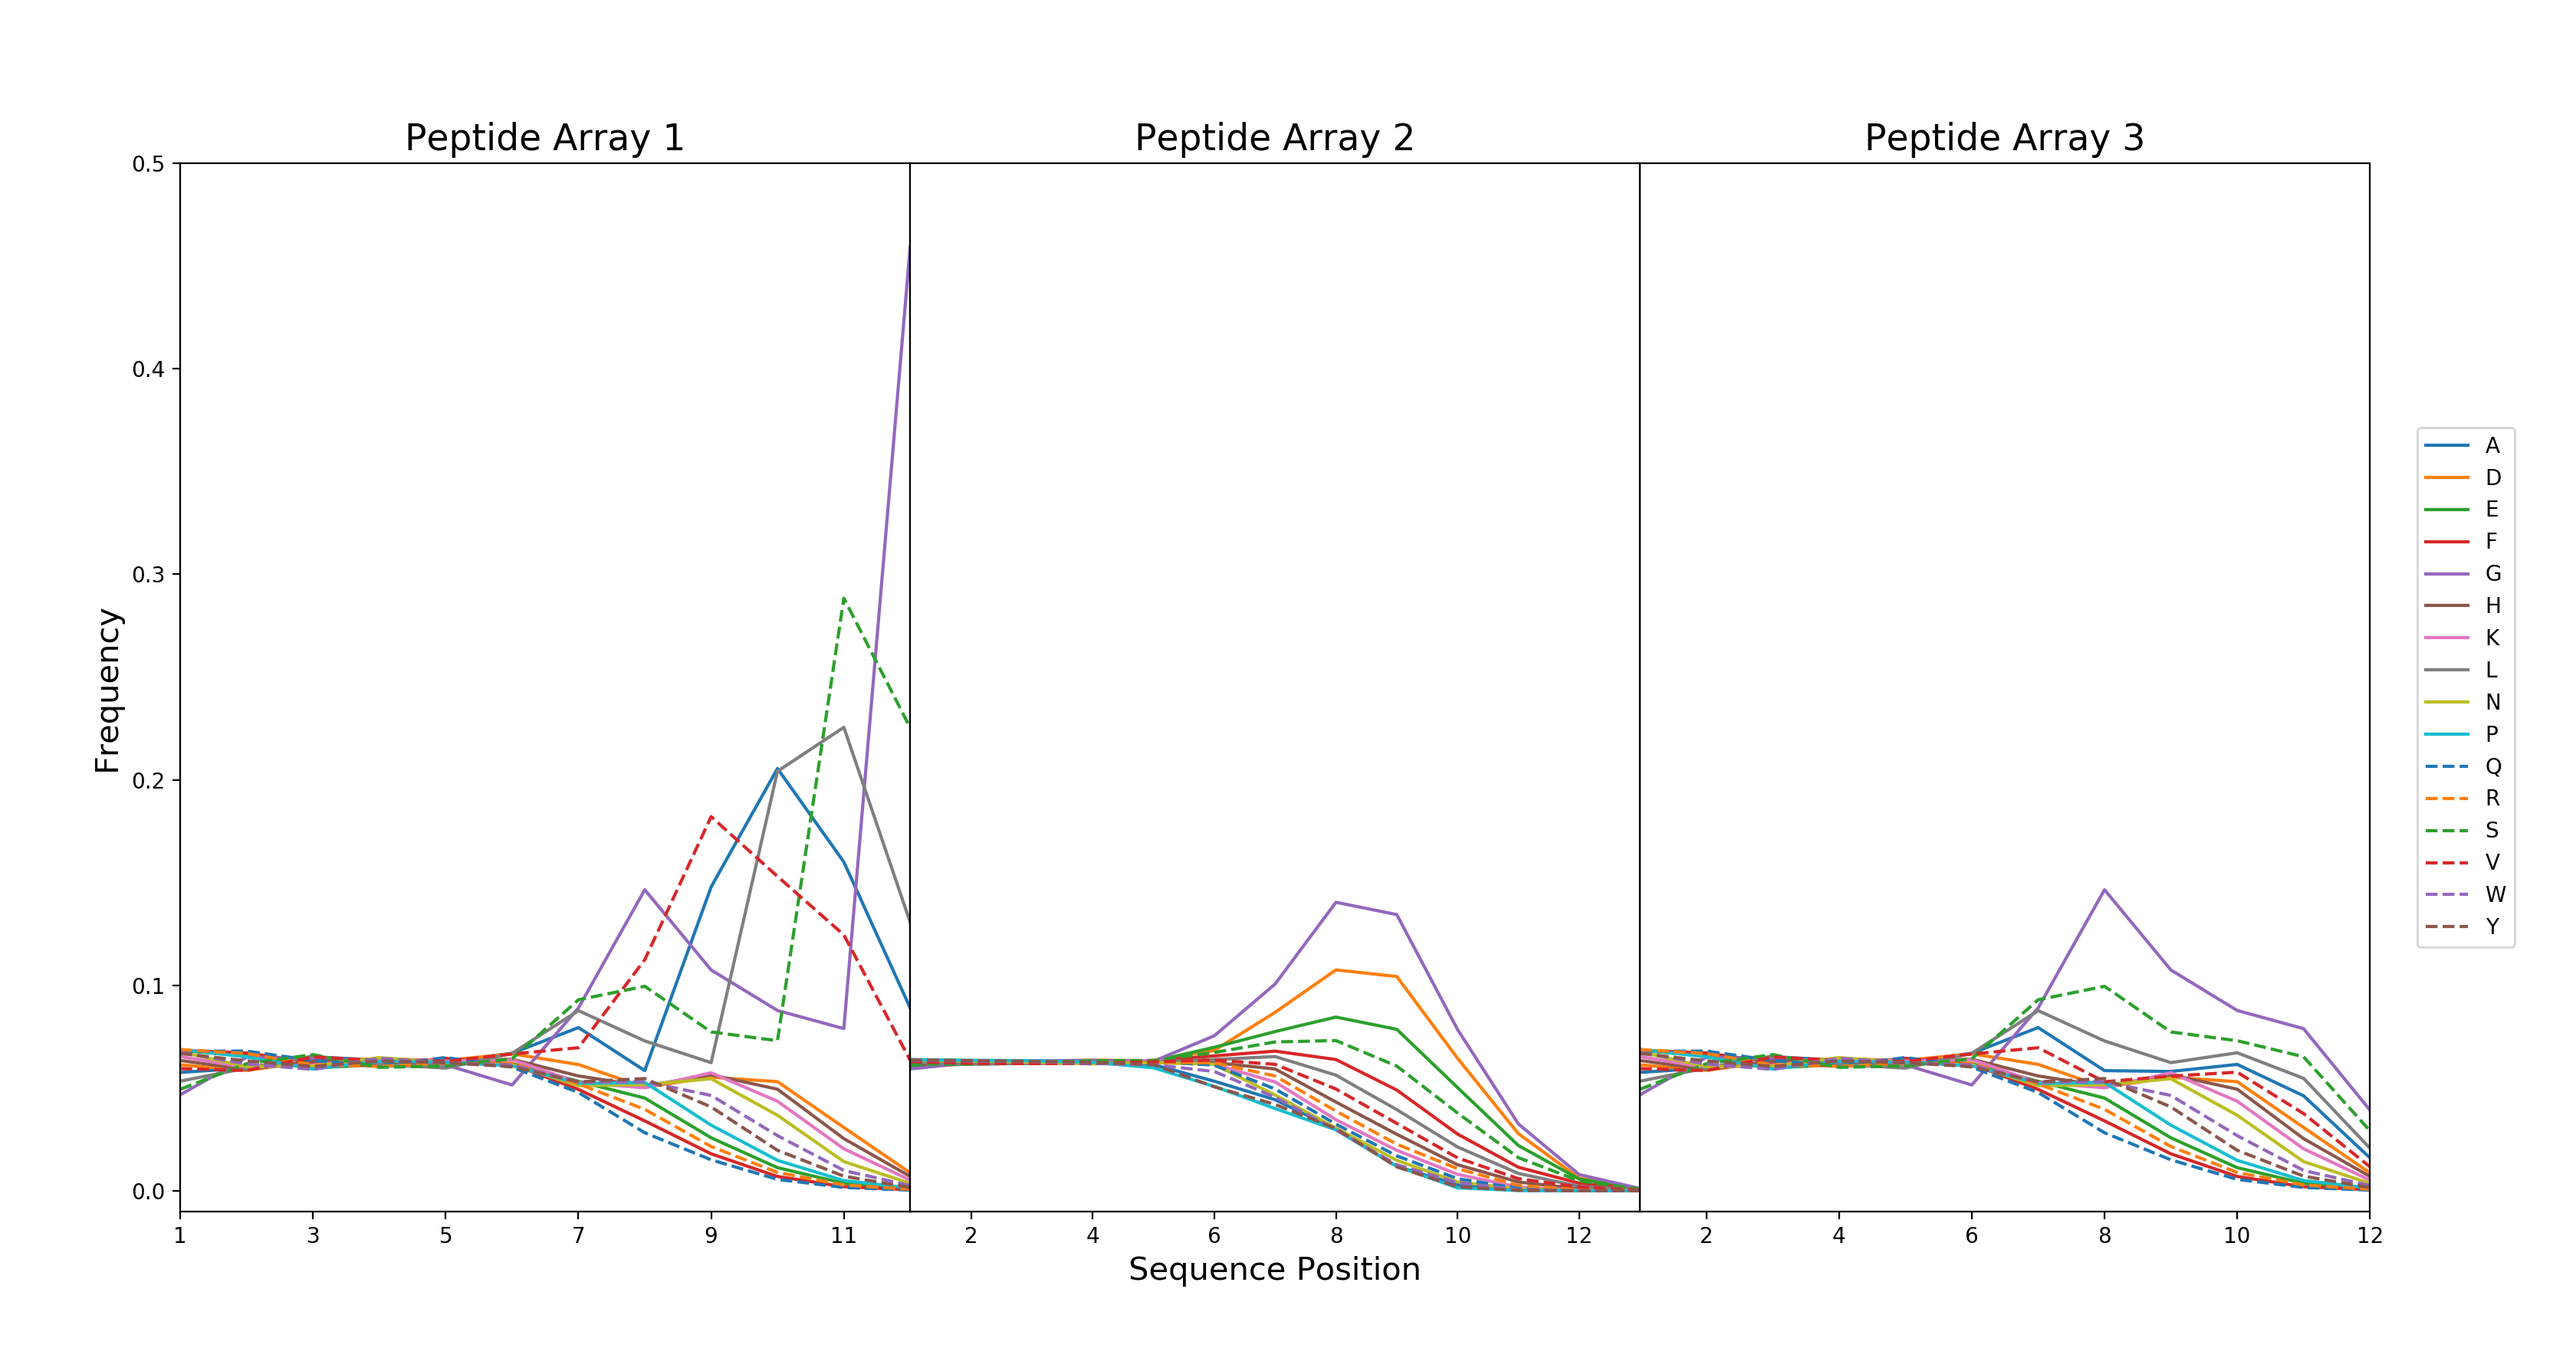
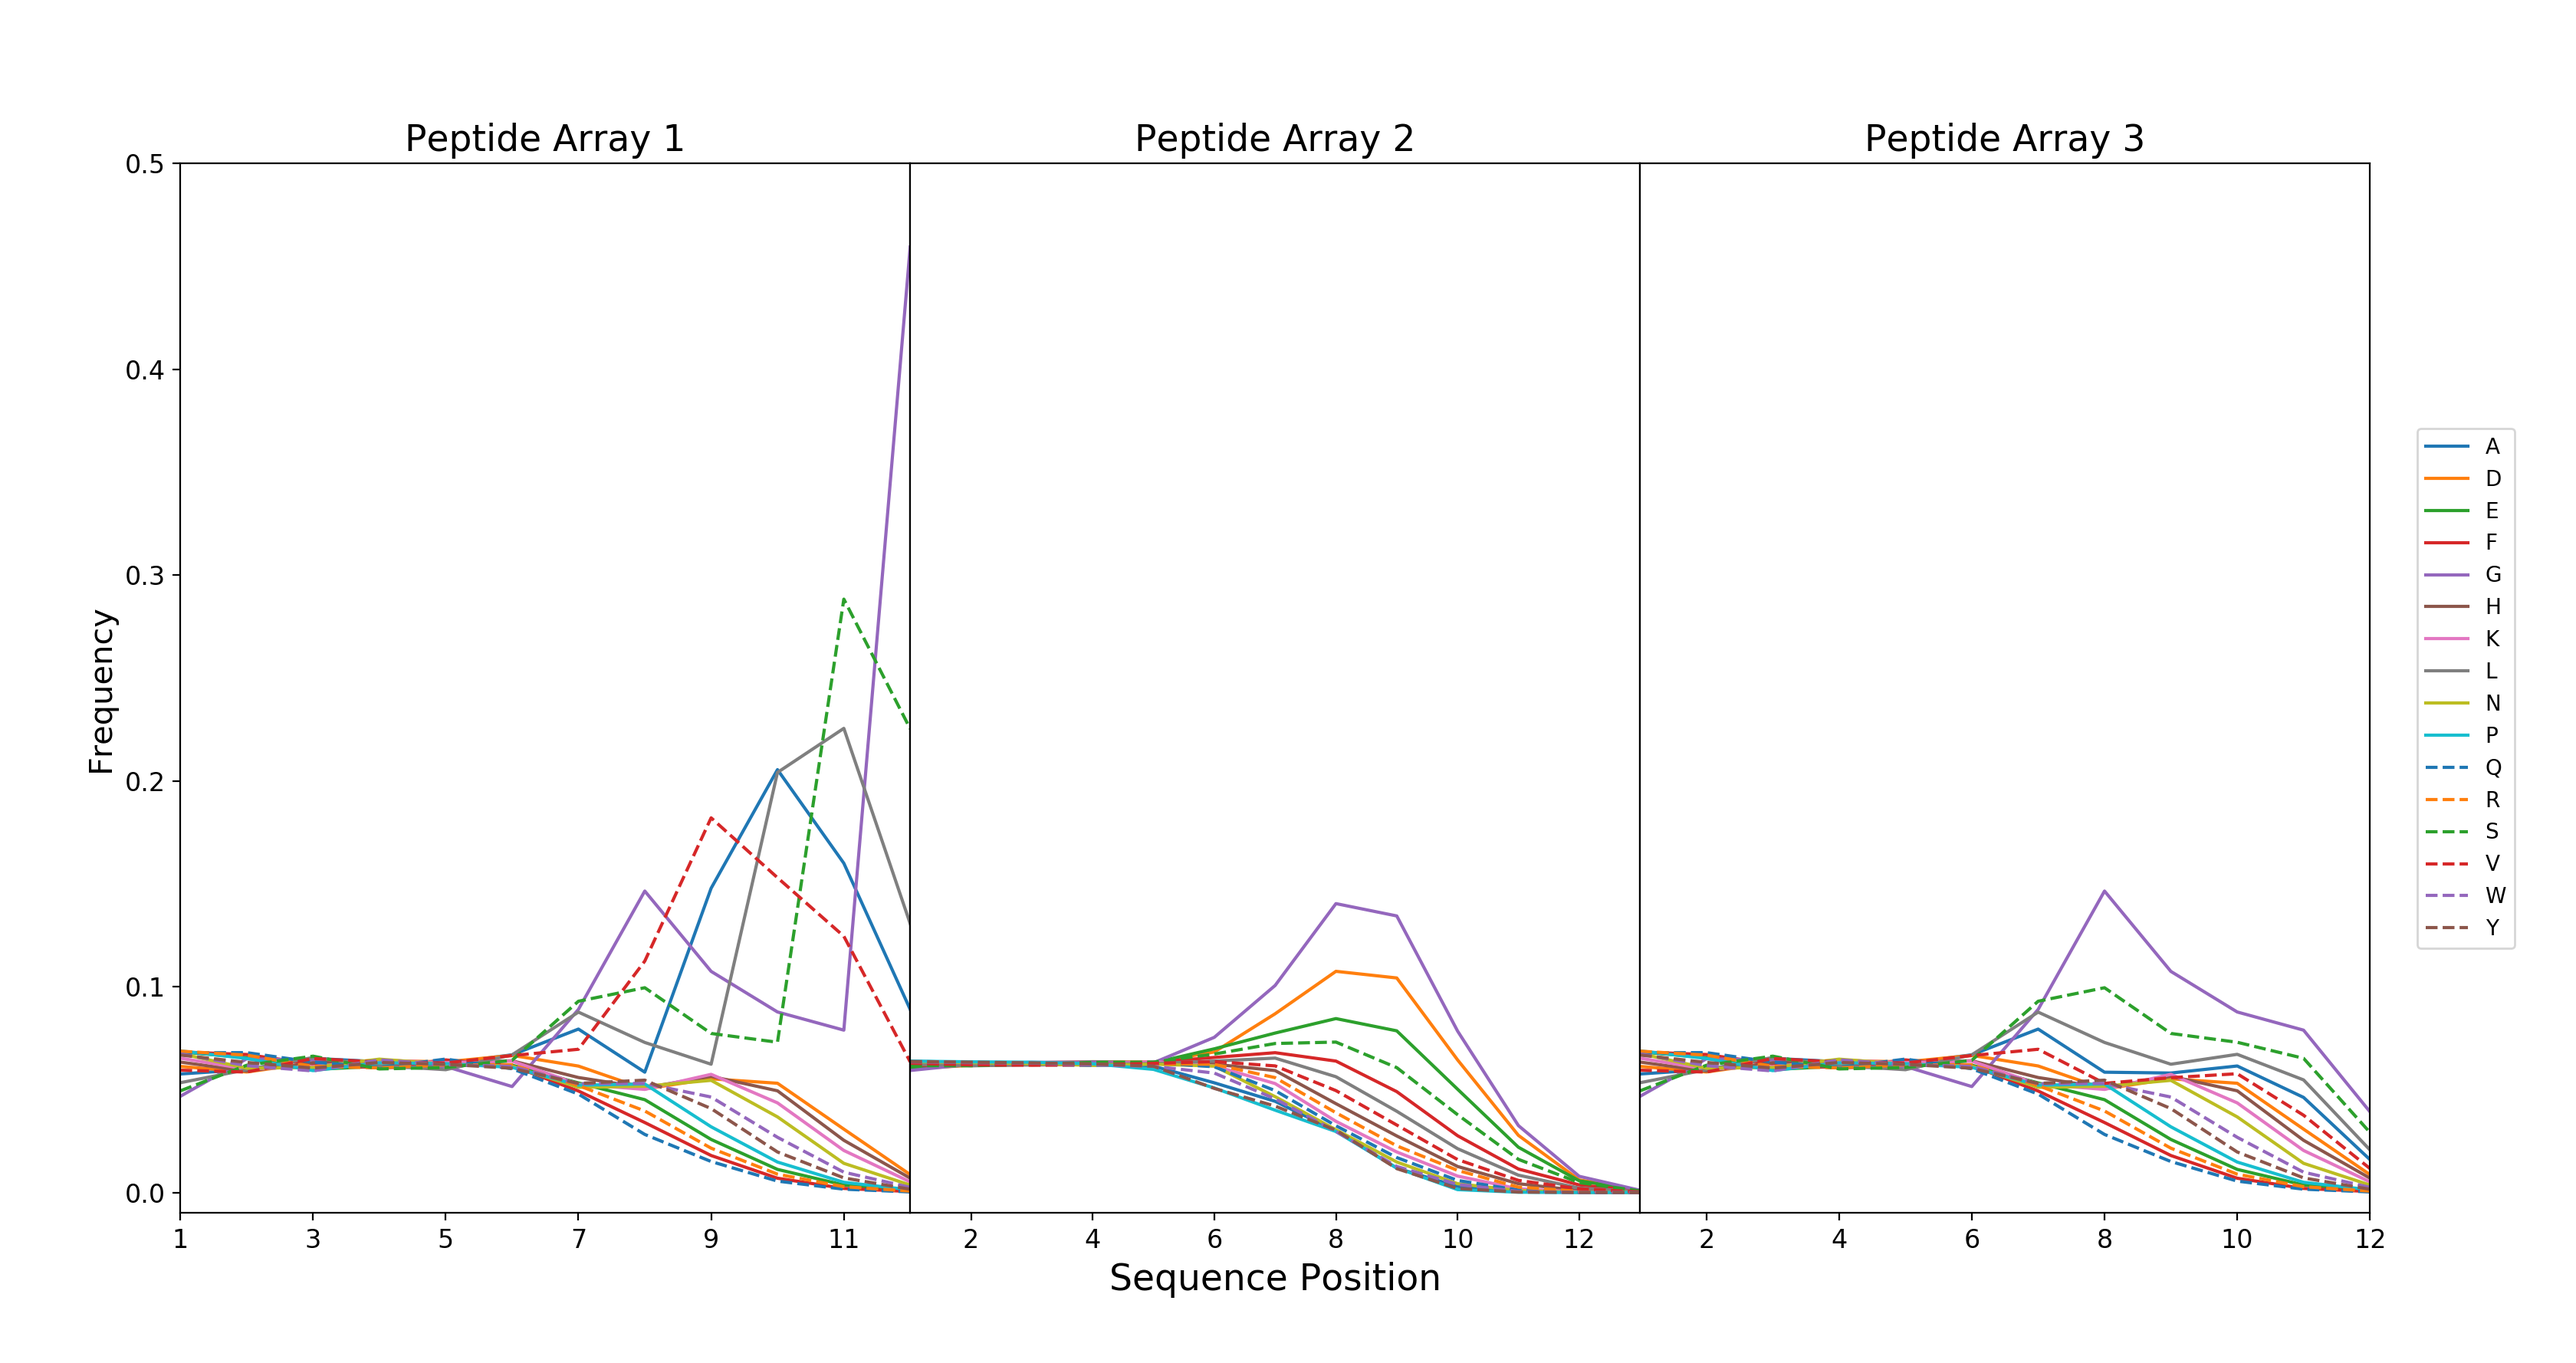
amino acid distributions font

diff --git a/plot_distributions.py b/plot_distributions.py
@@ -52,6 +52,7 @@ for i, target in targets.items():
     amino_dist.loc[:, 'Q':].plot(ax=ax2[i], linestyle='dashed')
     ax2[i].set_title(f'Peptide Array {i + 1}', fontsize=17)
     ax2[i].set_ylim([-0.01, 0.5])
+    ax2[i].tick_params(axis='both', which='major', labelsize=12)
 
 # Finalize length distribution plot
 ax1.set_xlabel('Sequence Length', fontsize=12)
@@ -66,7 +67,7 @@ ax2[1].set_xticks(range(2, 13, 2))
 ax2[2].set_xticks(range(2, 13, 2))
 ax2[1].set_yticks([])
 ax2[2].set_yticks([])
-ax2[1].set_xlabel('Sequence Position', fontsize=15)
+ax2[1].set_xlabel('Sequence Position', fontsize=17)
 ax2[0].get_legend().remove()
 ax2[1].get_legend().remove()
 ax2[2].legend(loc='center left', bbox_to_anchor=(1.05, 0.5))
